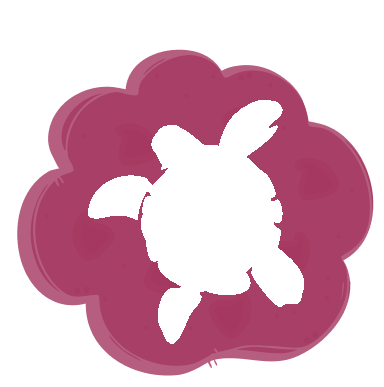
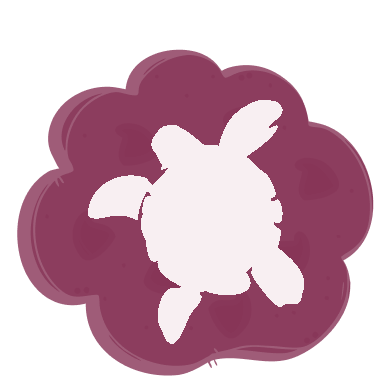
style: soften memory card palette

diff --git a/memory-game/asset-palette.test.js b/memory-game/asset-palette.test.js
@@ -9,7 +9,7 @@ const CARD_ASSETS = [
   "Seagrass.png", "MantaRay.png", "Whale.png", "Coral.png",
 ];
 
-const EXPECTED_COLORS = new Set(["a53860", "ffffff"]);
+const EXPECTED_COLORS = new Set(["7a1f45", "f8eff2"]);
 
 function paeth(left, above, upperLeft) {
   const estimate = left + above - upperLeft;
@@ -66,19 +66,24 @@ function decodeRgbaPng(buffer) {
   return pixels;
 }
 
-test("every marine card uses only the requested #A53860 and white", async () => {
+test("every marine card uses deep pink and off-white with translucent cookies", async () => {
   for (const asset of CARD_ASSETS) {
     const pixels = decodeRgbaPng(await readFile(`assets/${asset}`));
     const colors = new Set();
+    const cookieAlphas = [];
     for (let index = 0; index < pixels.length; index += 4) {
       if (pixels[index + 3] === 0) continue;
-      colors.add(pixels.subarray(index, index + 3).toString("hex"));
+      const color = pixels.subarray(index, index + 3).toString("hex");
+      colors.add(color);
+      if (color === "7a1f45") cookieAlphas.push(pixels[index + 3]);
     }
     assert.deepEqual(colors, EXPECTED_COLORS, asset);
+    assert.equal(Math.max(...cookieAlphas), 230, `${asset} cookie opacity`);
   }
 });
 
-test("the cookie back uses the requested #A53860", async () => {
+test("the cookie back uses the same translucent deep pink", async () => {
   const cookie = await readFile("assets/cookie-card.svg", "utf8");
-  assert.match(cookie, /fill="#A53860"/);
+  assert.match(cookie, /fill="#7A1F45"/);
+  assert.match(cookie, /fill-opacity="0\.9"/);
 });
